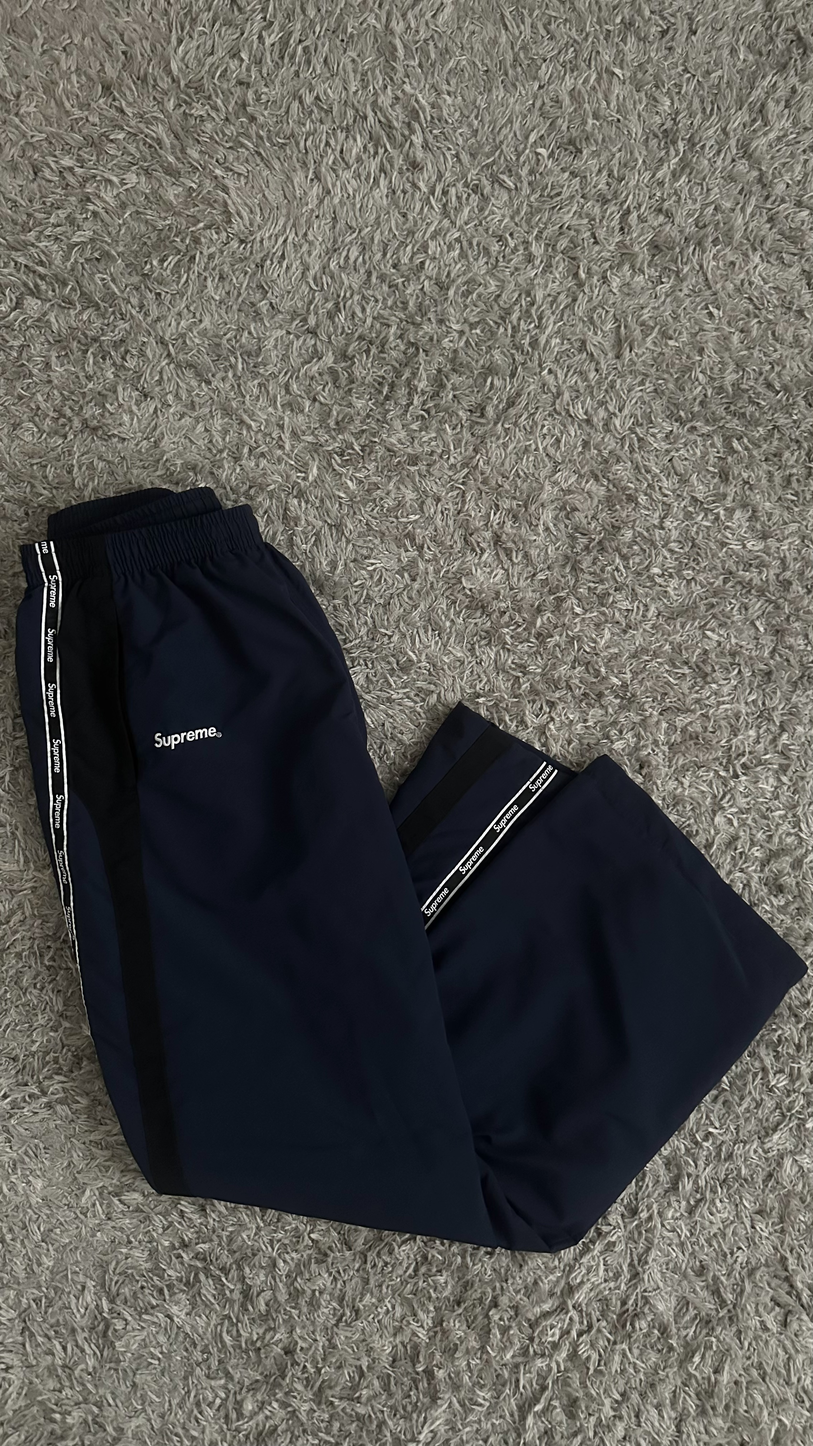
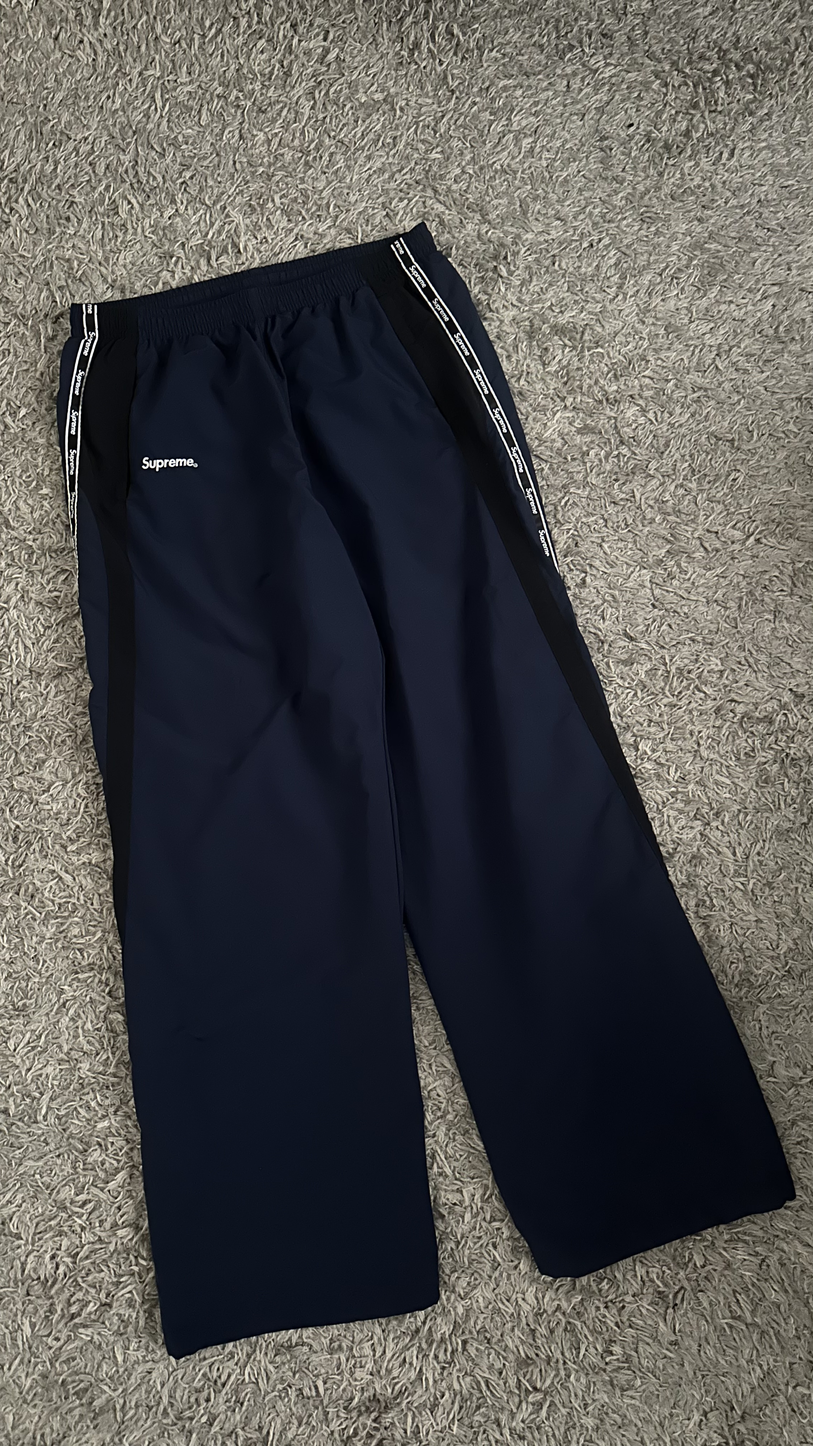
Add new photo 1 for supreme-track-pant-navy, old photo becomes -2

diff --git a/index.html b/index.html
@@ -834,7 +834,7 @@ const WA_NUMBER = "541134435571";
   emailjs.init({ publicKey: EMAILJS_PUBKEY });
   // Reemplazá con tu Access Token de Mercado Pago (Producción)
   // Obtenelo en: mercadopago.com.ar/developers/panel → Credenciales de producción
-  const IMGS = {"essentials-jersey-sand-120usd-usdt":2,"essentials-hoodie-light-oatmeal-160usd-usdt":1,"kith-tee-doghouse-120usd-usdt":2,"tee-quinn-kith-120usd-usdt":2,"supreme-boxers-black-100usd-usdt":2,"supreme-boxers-white-100usd-usdt":2,"supreme-pilled-sweater-300usd-usdt":1,"supreme-classic-logo-hoodie-300usd-usdt":1,"supreme-small-box-zip-hoodie-300usd-usdt":2,"tee-diesel-100usd-usdt":2,"nike-polo-green-80usd-usdt":2,"pant-michigan-jordan-80usd-usdt":1,"jogger-nike-65usd-usdt":2,"casa-blanca-tee-montangne-280usd-usdt":2,"casa-blanca-tee-casa-way-mountain-280usd-usdt":2,"mixed-emotion-tee-rhinestone-cropped-150usd-usdt":2,"mixed-emotion-sweatpants-pearls-220usd-usdt":2,"mixed-emotion-paisley-denim-black-shirt-150usd-usdt":2,"supreme-zip-hoodie-collegiate-blue-usd-usdt-250":2,"denim-tears-crewneck-blue-usd-usdt-200":2,"mixed-emotion-paisley-denim-blue-shirt-150usd-usdt":2,"mixed-emotion-dove-tee-150usd-usdt":1,"mixed-emotion-black-beanie-100usd-usdt":2,"hellstar-moto-jersey-280usd-usdt":2,"syna-star-cap-black-120usd-usdt":1,"syna-world-menasyn-tee-navy-130usd-usdt":2,"syna-world-menasyn-tee-grey-130usd-usdt":2,"syna-college-tee-blue-100usd-usdt":2,"eric-emanuel-bagy-short-baby-blue-160usd-usdt":2,"nike-naos-short-80usd-usdt":2,"all-saints-underground-oversized-tee-olive-150usd-usdt":2,"eric-emanuel-cargo-short-black-160usd-usdt":2,"vale-forever-94-olympia-tee-white-120usd-usdt":2,"vale-forever-bling-tee-150usd-usdt":2,"jordan-diamond-real-tree-short-80usd-usdt":2,"vale-forever-dreams-futball-jersey-150usd-usdt":2,"essentials-abbey-stone-basket-short-1500usd-usdt":2,"vale-forever-techwood-pullover-red-250usd-usdt":2,"essentials-crewneck-heather-stone-150usd-usdt":2,"essentials-crewneck-timber-1500usd-usdt":2,"corteiz-alcatraz-grey-hoodie-240usd-usdt":2,"corteiz-tank-tee-black-80usd-usdt":2,"casa-blanca-tee-nature-teacher-printed-280usd-usdt":2,"off-white-helvetica-hoodie-white-350usd-usdt":2,"off-white-short-caravag-paint-250usd-usdt":2,"jordan-4-rare-air-330usd-usdt":2,"syna-track-jacket-blue-200usd-usdt":2,"corteiz-allstarz-tee-green-100usd-usdt":2,"sp5der-atlanta-jacket-white-330usd-usdt":1,"corteiz-gradient-jacket-black-270usd-usdt":2,"hoodie-denim-tears1":2,"syna-vortex-short-black-red-80usd-usdt":2,"denim-tears-hoodie-brown-320usd-usdt":2,"corteiz-gradient-pant-black-250usd-usdt":2,"syna-no-gimmicks-tee-black-100usd-usdt":2,"syna-x-psg-tee-black-130usd-usdt":2,"eme-studios-crewneck-brown-220usd-usdt":2,"mixed-emotion-end-tee-blue-150usd-usdt":2,"mixed-emotion-end-tee-white-150usd-usdt":2,"mixed-emotion-end-tee-black-150usd-usdt":2,"broken-planet-bp-sport-tee-grey-120usd-usdt":1,"syna-world-arc-tee-navy-100usd-usdt":1,"essentials-hoodie-cocoa-160usd-usdt":1,"supreme-tape-65usd-usdt":1,"corteiz-vs-everybody-tee-white-120usd-usdt":2,"essentials-hoodie-taupe-160usd-usdt":2,"essentials-hoodie-coral-160usd-usdt":2,"essentials-1977-hoodie-black-160usd-usdt":2,"essentials-hoodie-plum-160usd-usdt":1,"supreme-cap-arabic-black-125usd-usdt":2,"supreme-camp-cap-camo-125usd-usdt":2,"nike-club-cap-black-40usd-usdt":2,"nike-zip-hoodie-black-80usd-usdt":2,"jordan-jumpman-crewneck-black-50usd-usdt":1,"essentials-hoodie-sage-160usd-usdt":2,"corteiz-alcatraz-tee-orange-100usd-usdt":2,"supreme-fuckem-tee-navy-150usd-usdt":2,"yeezy-slides-black-120usd-usdt":1,"yeezy-slides-bone-120usd-usdt":1,"essentials-jogger-black-65usd-usdt":1,"eric-emanuel-short-floral-orange-100usd-usdt":2,"broken-planet-fast-boyz-tee-black-120usd-usdt":2,"prada-sunglasses-white-300usd-usdt":2,"broken-planet-sport-tee-grey-120usd-usdt":2,"prada-eyewear-sunglasses-bone-300usd-usdt":1,"essentials-fleece-hoodie-grey-150usd-usdt":2,"essentials-relaxed-jogger-light-oatmeal-160usd-usdt":2,"corteiz-narco-pets-tee-white-120usd-usdt":2,"corteiz-narco-pets-tee-black-120usd-usdt":2,"supreme-jacob-co-la-martina-sweatpant-navy-320usd-usdt":2,"supreme-jacob-co-la-martina-zip-jacket-navy-350usd-usdt":2,"hellstar-tee-white-blue-150usd-usdt":2,"supreme-track-jacket-navy-300usd-usdt":2,"supreme-track-pant-navy-300usd-usdt":1,"mixed-emotion-cursive-angel-tee-white-150usd-usdt":2,"mixed-emotion-cupid-tee-white-150usd-usdt":2,"mixed-emotion-arch-angel-tee-150usd-usdt":2,"mixed-emotion-emotions-never-die-tee-white-150usd-usdt":2,"essentials-hoodie-wood-160usd-usdt":2,"jordan-tee-jumpman-white-60usd-usdt":2,"stussy-crewneck-cream-blue-220usd-usdt":2,"nike-jogger-burgundy-65usd-usdt":2,"nike-jogger-black-65usd-usdt":1,"jordan-tee-blue-50usd-usdt":2,"syna-short-sage-green-160usd-usdt":2,"syna-crewneck-sage-green-160usd-usdt":2,"corteiz-allstarz-jersey-black-150usd-usdt":2,"essentials-hoodie-vintage-black-180usd-usdt":1,"sp5der-atlanta-pant-white-300usd-usdt":2,"denim-tears-hoodie-grey-350usd-usdt":2,"essentials-jogger-stretch-limo-160usd-usdt":2,"essentials-hoodie-stretch-limo-160usd-usdt":2};
+  const IMGS = {"essentials-jersey-sand-120usd-usdt":2,"essentials-hoodie-light-oatmeal-160usd-usdt":1,"kith-tee-doghouse-120usd-usdt":2,"tee-quinn-kith-120usd-usdt":2,"supreme-boxers-black-100usd-usdt":2,"supreme-boxers-white-100usd-usdt":2,"supreme-pilled-sweater-300usd-usdt":1,"supreme-classic-logo-hoodie-300usd-usdt":1,"supreme-small-box-zip-hoodie-300usd-usdt":2,"tee-diesel-100usd-usdt":2,"nike-polo-green-80usd-usdt":2,"pant-michigan-jordan-80usd-usdt":1,"jogger-nike-65usd-usdt":2,"casa-blanca-tee-montangne-280usd-usdt":2,"casa-blanca-tee-casa-way-mountain-280usd-usdt":2,"mixed-emotion-tee-rhinestone-cropped-150usd-usdt":2,"mixed-emotion-sweatpants-pearls-220usd-usdt":2,"mixed-emotion-paisley-denim-black-shirt-150usd-usdt":2,"supreme-zip-hoodie-collegiate-blue-usd-usdt-250":2,"denim-tears-crewneck-blue-usd-usdt-200":2,"mixed-emotion-paisley-denim-blue-shirt-150usd-usdt":2,"mixed-emotion-dove-tee-150usd-usdt":1,"mixed-emotion-black-beanie-100usd-usdt":2,"hellstar-moto-jersey-280usd-usdt":2,"syna-star-cap-black-120usd-usdt":1,"syna-world-menasyn-tee-navy-130usd-usdt":2,"syna-world-menasyn-tee-grey-130usd-usdt":2,"syna-college-tee-blue-100usd-usdt":2,"eric-emanuel-bagy-short-baby-blue-160usd-usdt":2,"nike-naos-short-80usd-usdt":2,"all-saints-underground-oversized-tee-olive-150usd-usdt":2,"eric-emanuel-cargo-short-black-160usd-usdt":2,"vale-forever-94-olympia-tee-white-120usd-usdt":2,"vale-forever-bling-tee-150usd-usdt":2,"jordan-diamond-real-tree-short-80usd-usdt":2,"vale-forever-dreams-futball-jersey-150usd-usdt":2,"essentials-abbey-stone-basket-short-1500usd-usdt":2,"vale-forever-techwood-pullover-red-250usd-usdt":2,"essentials-crewneck-heather-stone-150usd-usdt":2,"essentials-crewneck-timber-1500usd-usdt":2,"corteiz-alcatraz-grey-hoodie-240usd-usdt":2,"corteiz-tank-tee-black-80usd-usdt":2,"casa-blanca-tee-nature-teacher-printed-280usd-usdt":2,"off-white-helvetica-hoodie-white-350usd-usdt":2,"off-white-short-caravag-paint-250usd-usdt":2,"jordan-4-rare-air-330usd-usdt":2,"syna-track-jacket-blue-200usd-usdt":2,"corteiz-allstarz-tee-green-100usd-usdt":2,"sp5der-atlanta-jacket-white-330usd-usdt":1,"corteiz-gradient-jacket-black-270usd-usdt":2,"hoodie-denim-tears1":2,"syna-vortex-short-black-red-80usd-usdt":2,"denim-tears-hoodie-brown-320usd-usdt":2,"corteiz-gradient-pant-black-250usd-usdt":2,"syna-no-gimmicks-tee-black-100usd-usdt":2,"syna-x-psg-tee-black-130usd-usdt":2,"eme-studios-crewneck-brown-220usd-usdt":2,"mixed-emotion-end-tee-blue-150usd-usdt":2,"mixed-emotion-end-tee-white-150usd-usdt":2,"mixed-emotion-end-tee-black-150usd-usdt":2,"broken-planet-bp-sport-tee-grey-120usd-usdt":1,"syna-world-arc-tee-navy-100usd-usdt":1,"essentials-hoodie-cocoa-160usd-usdt":1,"supreme-tape-65usd-usdt":1,"corteiz-vs-everybody-tee-white-120usd-usdt":2,"essentials-hoodie-taupe-160usd-usdt":2,"essentials-hoodie-coral-160usd-usdt":2,"essentials-1977-hoodie-black-160usd-usdt":2,"essentials-hoodie-plum-160usd-usdt":1,"supreme-cap-arabic-black-125usd-usdt":2,"supreme-camp-cap-camo-125usd-usdt":2,"nike-club-cap-black-40usd-usdt":2,"nike-zip-hoodie-black-80usd-usdt":2,"jordan-jumpman-crewneck-black-50usd-usdt":1,"essentials-hoodie-sage-160usd-usdt":2,"corteiz-alcatraz-tee-orange-100usd-usdt":2,"supreme-fuckem-tee-navy-150usd-usdt":2,"yeezy-slides-black-120usd-usdt":1,"yeezy-slides-bone-120usd-usdt":1,"essentials-jogger-black-65usd-usdt":1,"eric-emanuel-short-floral-orange-100usd-usdt":2,"broken-planet-fast-boyz-tee-black-120usd-usdt":2,"prada-sunglasses-white-300usd-usdt":2,"broken-planet-sport-tee-grey-120usd-usdt":2,"prada-eyewear-sunglasses-bone-300usd-usdt":1,"essentials-fleece-hoodie-grey-150usd-usdt":2,"essentials-relaxed-jogger-light-oatmeal-160usd-usdt":2,"corteiz-narco-pets-tee-white-120usd-usdt":2,"corteiz-narco-pets-tee-black-120usd-usdt":2,"supreme-jacob-co-la-martina-sweatpant-navy-320usd-usdt":2,"supreme-jacob-co-la-martina-zip-jacket-navy-350usd-usdt":2,"hellstar-tee-white-blue-150usd-usdt":2,"supreme-track-jacket-navy-300usd-usdt":2,"supreme-track-pant-navy-300usd-usdt":2,"mixed-emotion-cursive-angel-tee-white-150usd-usdt":2,"mixed-emotion-cupid-tee-white-150usd-usdt":2,"mixed-emotion-arch-angel-tee-150usd-usdt":2,"mixed-emotion-emotions-never-die-tee-white-150usd-usdt":2,"essentials-hoodie-wood-160usd-usdt":2,"jordan-tee-jumpman-white-60usd-usdt":2,"stussy-crewneck-cream-blue-220usd-usdt":2,"nike-jogger-burgundy-65usd-usdt":2,"nike-jogger-black-65usd-usdt":1,"jordan-tee-blue-50usd-usdt":2,"syna-short-sage-green-160usd-usdt":2,"syna-crewneck-sage-green-160usd-usdt":2,"corteiz-allstarz-jersey-black-150usd-usdt":2,"essentials-hoodie-vintage-black-180usd-usdt":1,"sp5der-atlanta-pant-white-300usd-usdt":2,"denim-tears-hoodie-grey-350usd-usdt":2,"essentials-jogger-stretch-limo-160usd-usdt":2,"essentials-hoodie-stretch-limo-160usd-usdt":2};
   const MP_ACCESS_TOKEN = "APP_USR-4034268870752412-071114-2fdf023dc38806fb4e2dd6c7e0ab92d5-1180952674";
 
   const grid = document.getElementById("product-grid");
